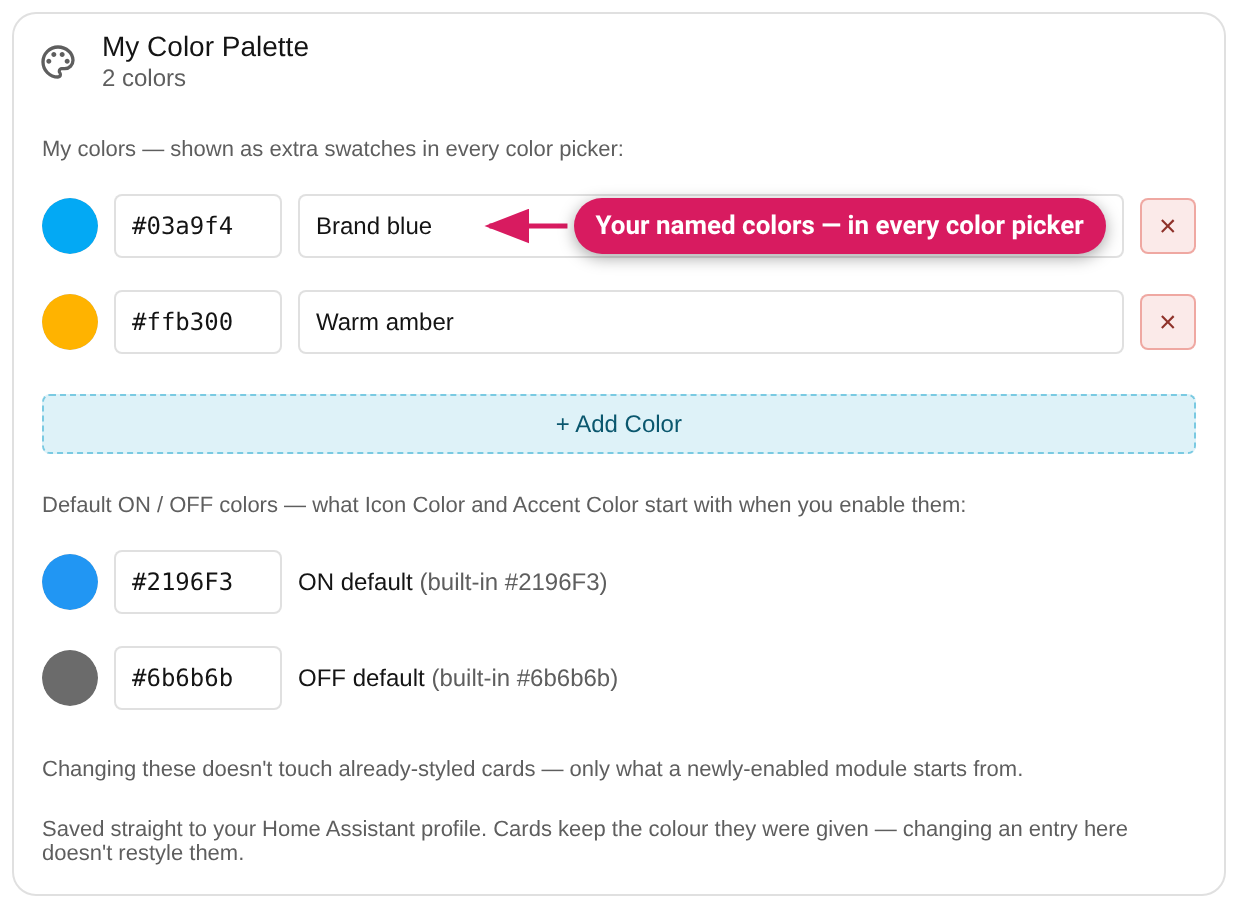
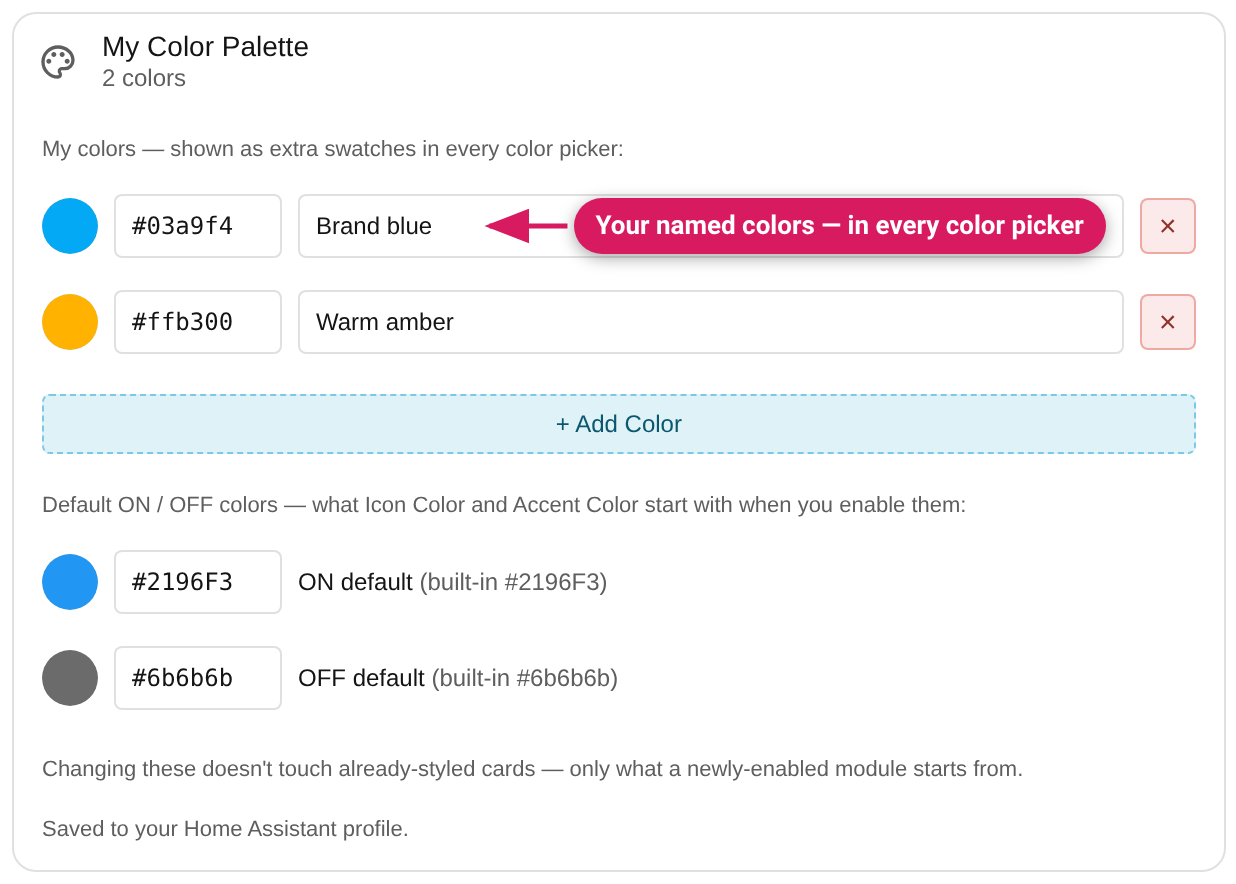
docs: run 2's Bubble reruns in the record; README Palette screenshot retaken
- Record: the four Bubble-check reruns (3/3 each; 10 misplaced loads, 10
  repaired; one card-mod load with the theme setting missing, counted
  apart; 20 of 20 saves on the dashboard within 300 ms).
- images/13 Palette.png: retaken on the frozen build (the Palette tab's one
  sentence, 'color'); the other 12 README screenshots came out
  pixel-identical.

Claude-Session: https://claude.ai/code/session_01Moef7BwiGuE8k5a8bwyqW9

diff --git a/docs/research/2026-11-v1.0.0-release-run.md b/docs/research/2026-11-v1.0.0-release-run.md
@@ -126,6 +126,11 @@ its note on the released file, which run 2 supersedes.
 23:42:49 RERUN cm release_qa dark rc=0: 60 clean of 60; known noise in 0; not clean:  — the visual check now counts KNOWN_NOISE apart (161fe3c); ran beside an investigation on the UIX rig
 23:42:49 rigs hold the frozen bundle (after the dark rerun)
 00:12:48 rigs hold the frozen bundle (before the Bubble reruns)
+00:18:01 RERUN uix bubble_heal_check rc=0: PASS 25 loads of a styled Bubble card: styled every time, repaired exactly where misplaced 1 of 25 loads had the engine element misplaced, 1 repair(s), all styled | 3/3 checks passed — the check counts the engine's theme wait apart (b63e478); run alone
+00:23:13 RERUN cm bubble_heal_check rc=0: PASS 25 loads of a styled Bubble card: styled every time, repaired exactly where misplaced 4 of 25 loads had the engine element misplaced, 4 repair(s), all styled; 1 load(s) the engine waited for Home Assistant's theme setting, which stayed missing (load 11; k | 3/3 checks passed — the check counts the engine's theme wait apart (b63e478); run alone
+00:28:26 RERUN 2602 bubble_heal_check rc=0: PASS 25 loads of a styled Bubble card: styled every time, repaired exactly where misplaced 5 of 25 loads had the engine element misplaced, 5 repair(s), all styled | 3/3 checks passed — the check counts the engine's theme wait apart (b63e478); run alone
+00:33:21 RERUN 2509 bubble_heal_check rc=0: PASS 25 loads of a styled Bubble card: styled every time, repaired exactly where misplaced 0 of 25 loads had the engine element misplaced, 0 repair(s), all styled | 3/3 checks passed — the check counts the engine's theme wait apart (b63e478); run alone
+00:33:21 rigs hold the frozen bundle (after the Bubble reruns)
 ```
 
 ### Notes on the lines that aren't clean
@@ -161,7 +166,11 @@ its note on the released file, which run 2 supersedes.
   measured" below: it is UIX waiting for the same theme setting. The check
   now counts such a load apart (setting missing, element in place but
   empty, no repair) and asserts everything else as before (commit
-  `6c64290`); rerun on all four rigs (rerun lines).
+  `6c64290`; the rerun lines name `b63e478`, the docs commit on top of it,
+  same harness). Rerun on all four rigs, one at a time: 3 of 3 each; 10
+  misplaced loads, 10 repaired, all styled; one card-mod load counted
+  apart (the theme setting missing); the save case reached the dashboard
+  within 300 ms in 20 of 20 saves.
 - **2602 functional UI 496 of 497, 2509 490 of 497** — the same gaps as
   run 1 (Home Assistant enabling Save on an unchanged mixed-form card;
   on 2025.9 also tile Font and the icon circle); 2602 counts one check
